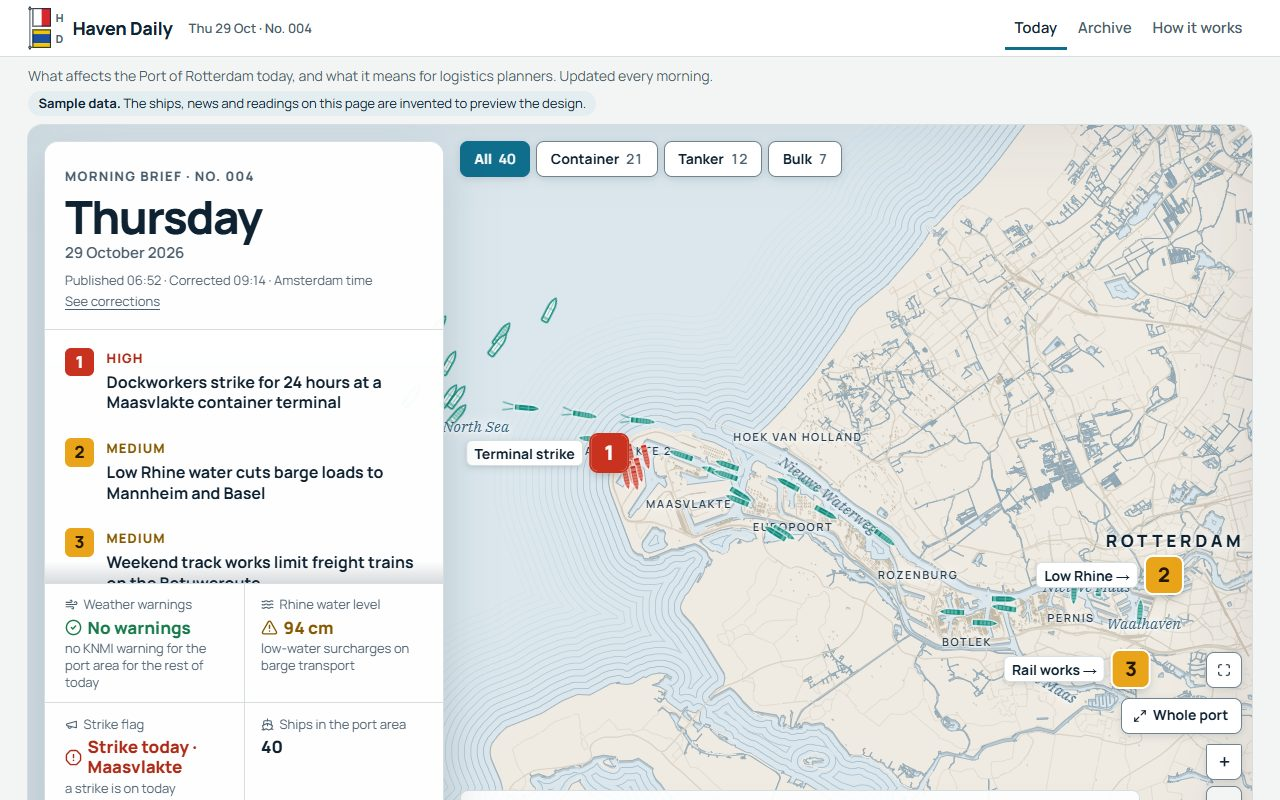
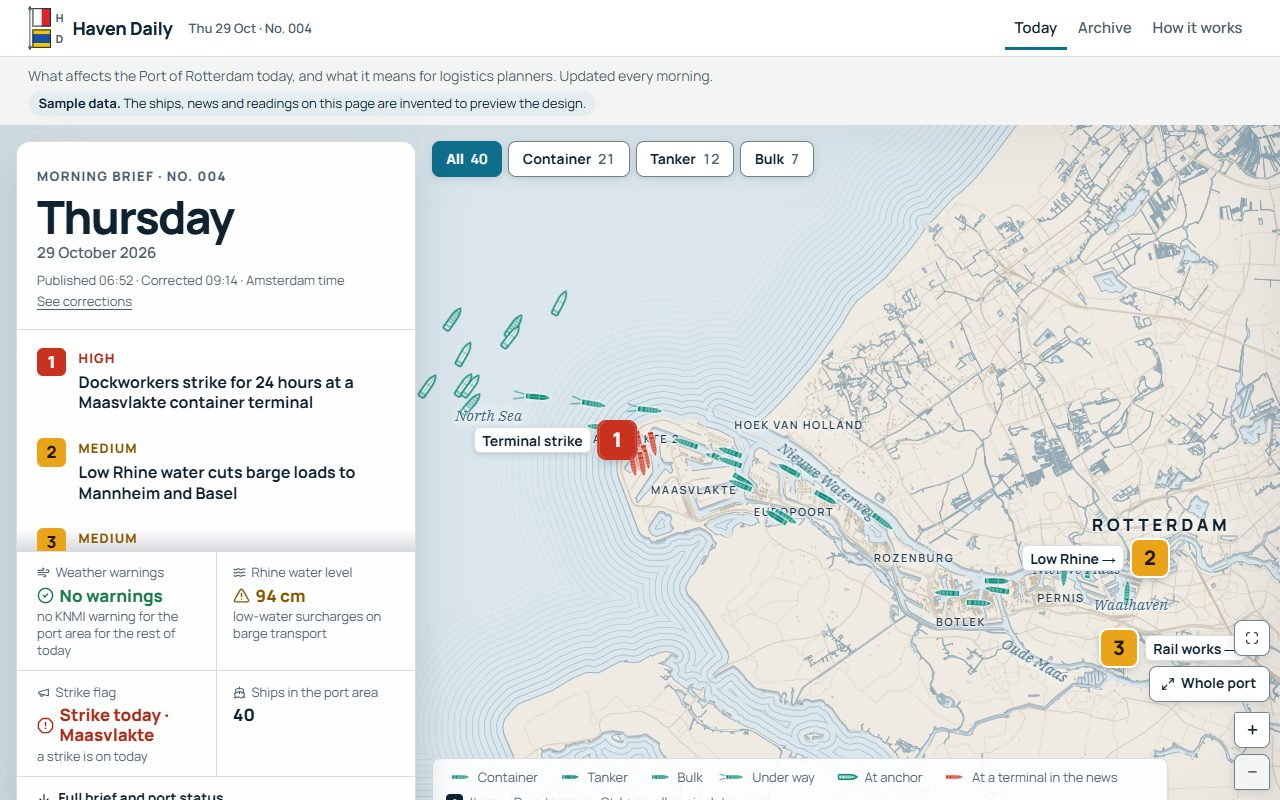
Spec 8.5: pin pairs back to main's numbers with main's chart size (option E); screenshots after the change (#134)

Changed region(s): [[0.0, 0.1562, 1.0, 1.0], [0.4062, 0.375, 0.4375, 0.4062]]

diff --git a/docs/SPEC.md b/docs/SPEC.md
@@ -1424,7 +1424,7 @@ The owner's laptop (Edge, mouse and touchpad) found the chart hard to use: wheel
 - **A shared marker:** the numbers side by side, the first (lowest) item's number on its place, then the places on one line: "3 4 Delta II (ex-APMT Rotterdam) · ECT Delta". Two items at the same place: "2 4 Europoort". **Too wide for the chart** (phones): one row per place, "1 Europoort" / "2 Calandkanaal" …, running down from the first.
 - **Label side:** the place's `side` from `config/places.toml`; the other side when the label would run off the chart or under the panel; for a shared marker then rows; if nothing fits, the narrowest.
 - **Edges (owner, 3 Nov 2026, PR #91):** a marker whose place is on the chart but whose box sticks out of it moves inward just enough to stay 4 px from the edge, so no number is cut (e.g. 5 East Anchorage on a phone: 12 px below the top edge, the sheet can't move further north). A place off the chart or under the panel is not pulled into view. **The home view uses the same rule** (`onChart`): a pin counts as on screen when its place is on the chart and right of the panel, even closer than half a number to the edge. Before (an 18 px margin) the phone home view dropped 5 East Anchorage, 12 px below the top edge, from 10 pairs that fit on screen (owner, 3 Nov 2026, PR #91). The box geometry (`boxAt`, `overlaps`, `onChart`, `nudgeInside`) is in `static/pins.js`, pure and without Leaflet, so `tests/test_pins_geometry.py` runs it in Node (skipped where Node isn't installed).
-- **Phone and laptop limit (accepted by the owner, 3 Nov 2026, PR #91).** On a phone the home view shows as many pins as fit, most severe first, because the sheet's height sets the smallest zoom (§8.1 "Home view"). Measured for every pair of places on the phone (390 × 844, with the `onChart` rule): no overlaps, lost items or cut labels; in **129 of 820 pairs** item 2 doesn't fit next to item 1 (item 1 is never left out), most often an outer anchorage, Eurogeul or Oude Maas with a place far from it. The item left out is one tap away: its entry is in the news list on the phone's first screen, above the chart, and tapping it (or "Show on chart" on its card) scrolls to the chart and flies to it. Not done: zooming out further (the view would run past the sheet's north and south edges, which are land, so either a larger basemap, about twice `basemap.js`, or empty bands) or a shorter phone chart (about 260 px to fix most pairs, a smaller chart every day). **Laptop** (1440 × 900, every pair, same rule, accepted the same day): no overlaps, lost items or cut labels; in **17 of 820 pairs** item 2 doesn't fit next to item 1 (item 1 is never left out). All 17 are an outer anchorage (3 East, 4 West or 5 East) with the city end of the port (RST, Vondelingenplaat, Pernis, Eemhaven, Waalhaven, Botlekbrug, Nieuwe Maas or Oude Maas): the chart right of the panel can't show both even past the sheet's west edge. On a laptop the item left out is in the news panel beside the chart, always visible; clicking it flies there. Results: PR #91 comments. **Since #134** (laptop chart at most 80rem wide, §7.4), measured in the speed run (headless Chrome, run 45436427744, all 820 pairs plus the singles and all places): at 1440 × 900, 54 checks with a number hidden, was 18 (**36 more pairs**); at 1280 × 800, 45, was 23 (**22 more**). Still no overlaps, lost items or cut labels. Every new pair is an outer anchorage or the Eurogeul with a place in the inner port; item 1 is never left out. The owner decides on PR #136. A hint for an item off the chart is a later idea (#92, phones).
+- **Phone and laptop limit (accepted by the owner, 3 Nov 2026, PR #91).** On a phone the home view shows as many pins as fit, most severe first, because the sheet's height sets the smallest zoom (§8.1 "Home view"). Measured for every pair of places on the phone (390 × 844, with the `onChart` rule): no overlaps, lost items or cut labels; in **129 of 820 pairs** item 2 doesn't fit next to item 1 (item 1 is never left out), most often an outer anchorage, Eurogeul or Oude Maas with a place far from it. The item left out is one tap away: its entry is in the news list on the phone's first screen, above the chart, and tapping it (or "Show on chart" on its card) scrolls to the chart and flies to it. Not done: zooming out further (the view would run past the sheet's north and south edges, which are land, so either a larger basemap, about twice `basemap.js`, or empty bands) or a shorter phone chart (about 260 px to fix most pairs, a smaller chart every day). **Laptop** (1440 × 900, every pair, same rule, accepted the same day): no overlaps, lost items or cut labels; in **17 of 820 pairs** item 2 doesn't fit next to item 1 (item 1 is never left out). All 17 are an outer anchorage (3 East, 4 West or 5 East) with the city end of the port (RST, Vondelingenplaat, Pernis, Eemhaven, Waalhaven, Botlekbrug, Nieuwe Maas or Oude Maas): the chart right of the panel can't show both even past the sheet's west edge. On a laptop the item left out is in the news panel beside the chart, always visible; clicking it flies there. Results: PR #91 comments. **#134:** a laptop chart at most 80rem wide and taller (§7.4) hid **36 more pairs** at 1440 × 900 (54 checks with a number hidden, was 18) and 22 more at 1280 × 800 (45, was 23), all an outer anchorage or the Eurogeul with a place in the inner port (speed run 45436427744). Fitting them would have meant zooming out past the basemap's north and south edges, so the owner kept main's chart size (option E, 24 Nov 2026). Measured again with main's size (speed run 45446815705, headless Chrome, 862 checks per size): **18 at 1440 × 900 and 23 at 1280 × 800, the same as main**; no overlaps, lost items or cut labels. A hint for an item off the chart is a later idea (#92, phones).
 - **Picking and screen readers:** every number is its own `<button>` (`data-action="show-item"`, name "Item 4, ECT Delta: <headline>"), so each item in a shared marker can be picked by mouse, touch or keyboard; a shared marker is a `role="group"` named "Items 3 and 4 share this marker: Delta II (ex-APMT Rotterdam), ECT Delta". Tab order follows the item numbers. A marker rebuilt by a merge or split keeps the keyboard focus on the same item, and the selected and hovered items are re-applied.
 - **Check (also in the speed run, `speed.yml`, before and after at both laptop sizes, #134):** `python tools/check_map_pins.py` renders a page and measures the markers at the home view in a headless browser (Edge on Windows; `HAVEN_BROWSER` elsewhere), laptop (1440 × 900; `laptop-1280`: 1280 × 800) and phone (390 × 844): all 41 places at once, every place alone and every pair (820), for overlaps, numbers off the chart or under the panel, lost items and cut labels. `--places a,b,c` checks one set; `--compare before.json after.json` writes what changed.
 
